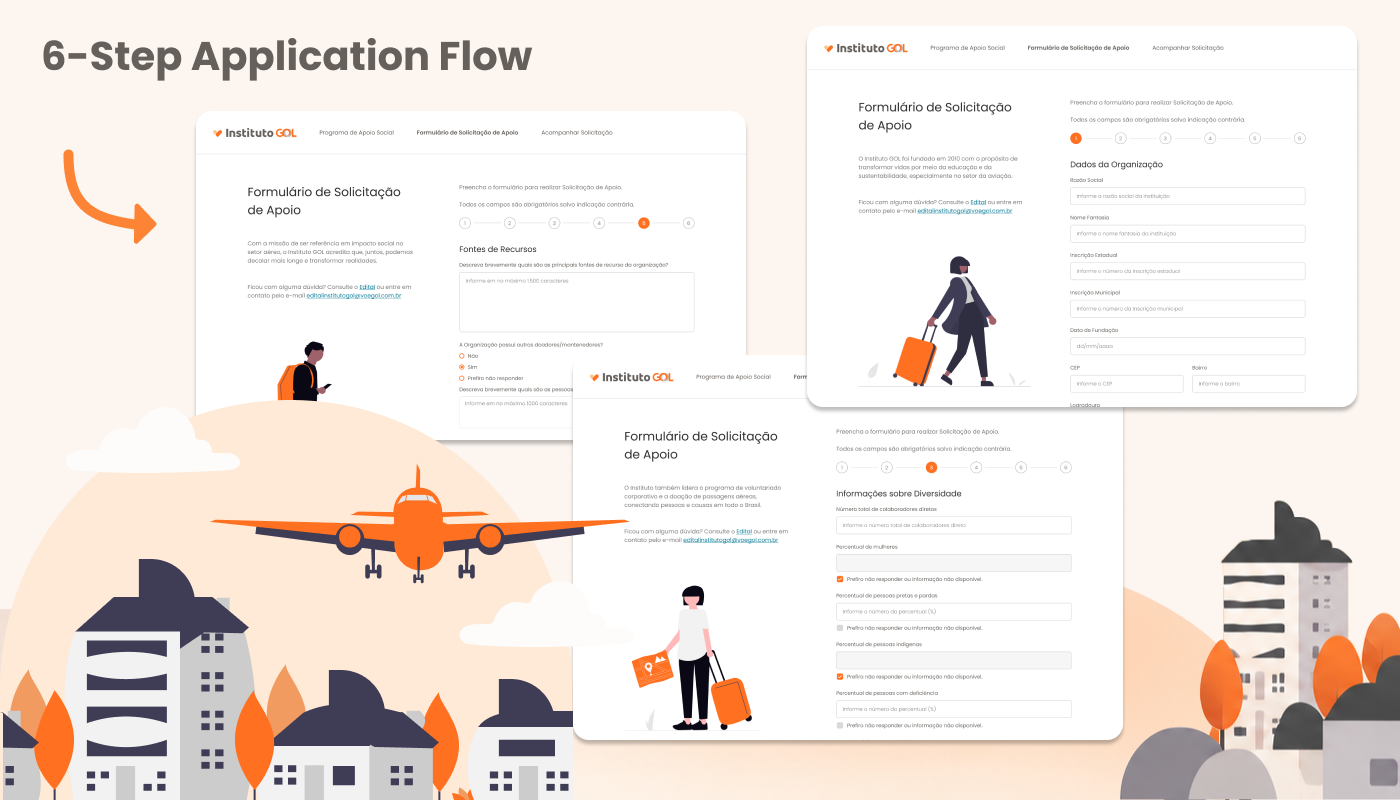
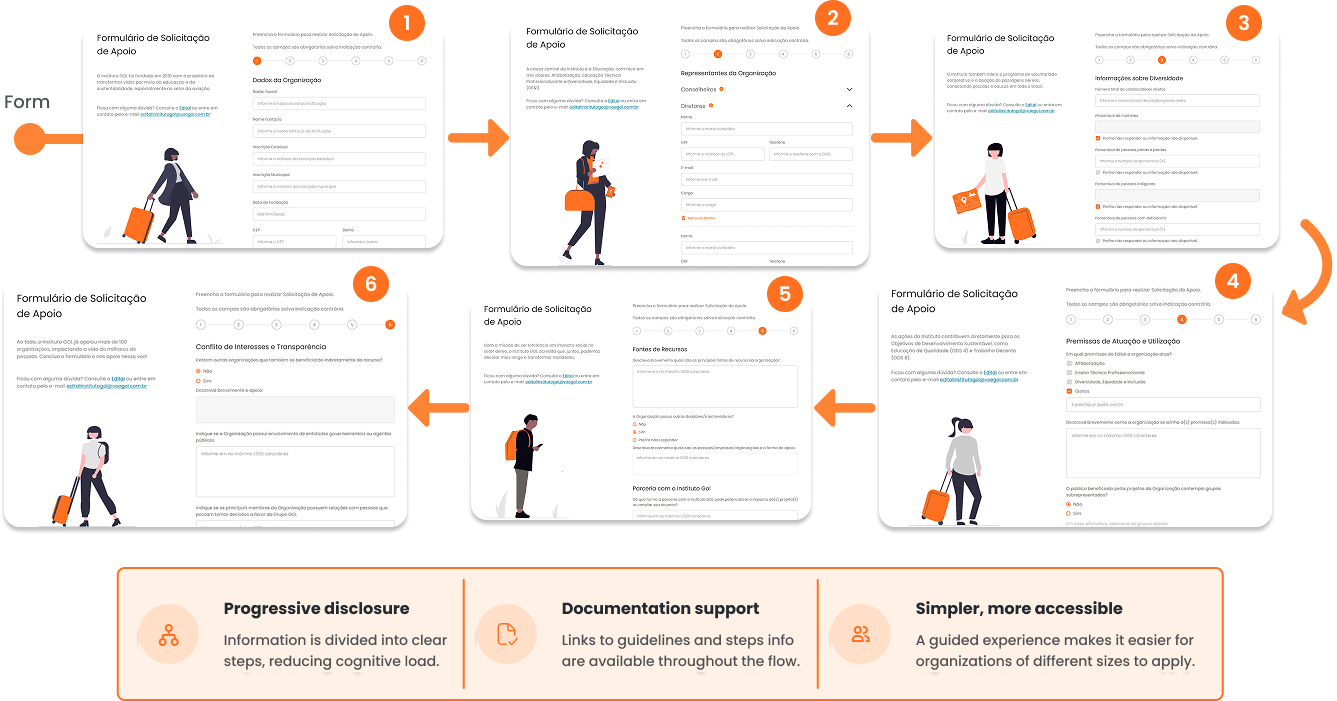
Improved assets for Gol project

diff --git a/src/data/caseStudies.ts b/src/data/caseStudies.ts
@@ -99,14 +99,14 @@ export const caseStudies: Record<string, CaseStudy> = {
 
             {
                 title: "One Process, Two Product Experiences",
-                // image: "/images/gol/end-to-end-service.png",
+                image: "/images/gol/end-to-end-service.png",
                 text:
                     "I treated the public and internal products as two sides of the same service. External organizations needed clarity around eligibility, documentation, submission and status tracking, while GOL’s team needed structured workflows for analysis, compliance, approvals and request management. Designing both experiences allowed decisions on one side of the process to account for their operational consequences on the other."
             },
 
             {
                 title: "Public Application Experience",
-                // image: "/images/gol/public-experience.png",
+                image: "/images/gol/public-experience.png",
                 text:
                     "The public experience was structured around three primary needs: understanding the Social Support Program, submitting an application during an active call and tracking an existing request. Clear requirements, documentation guidance, consent states and explicit system feedback were used to reduce uncertainty across a process that organizations may only complete once."
             },
@@ -127,7 +127,7 @@ export const caseStudies: Record<string, CaseStudy> = {
 
             {
                 title: "Request Tracking & Communication",
-                // image: "/images/gol/request-tracking.png",
+                image: "/images/gol/request-tracking.png",
                 text:
                     "Submission did not end the user journey. Organizations needed a way to return to the platform, recover access and follow the progress of their request without relying on a traditional account-based experience. The product combined request identification, access validation, status tracking and transactional email communication to keep applicants connected to the process after submission."
             },
@@ -170,7 +170,8 @@ export const caseStudies: Record<string, CaseStudy> = {
                 text:
                     "This project reinforced the value of designing complete services rather than isolated screens. Owning both the applicant journey and the internal operational experience made it possible to reason about the full lifecycle of each request, while moving from Figma into frontend implementation helped preserve product intent through production and exposed technical constraints early enough to improve the final experience."
             }
-        ]
+        ],
+        behanceUrl: "https://www.behance.net/gallery/258261751/Instituto-GOL-Social-Support-Platform"
     },
 
     "global-context": {

diff --git a/src/data/projects.ts b/src/data/projects.ts
@@ -35,7 +35,8 @@ export const projects: Project[] = [
       "Designed a six-step application process, request tracking, transactional communication and complex internal review workflows.",
       "Implemented most of the public-facing frontend in Angular and TypeScript within a four-person product team."
     ],
-    liveUrl: "https://institutogol.voegol.com.br/home"
+    liveUrl: "https://institutogol.voegol.com.br/home",
+    behanceUrl: "https://www.behance.net/gallery/258261751/Instituto-GOL-Social-Support-Platform"
   },
   // global context
   {
